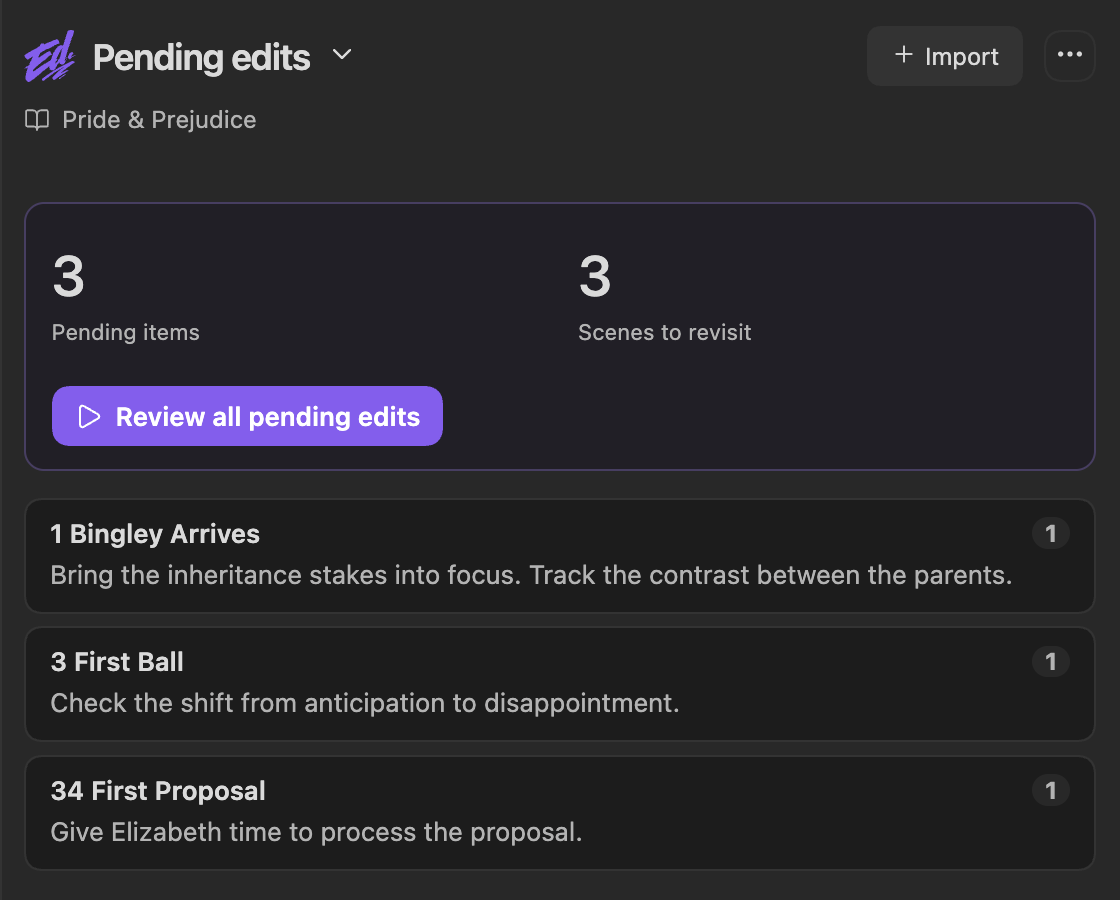
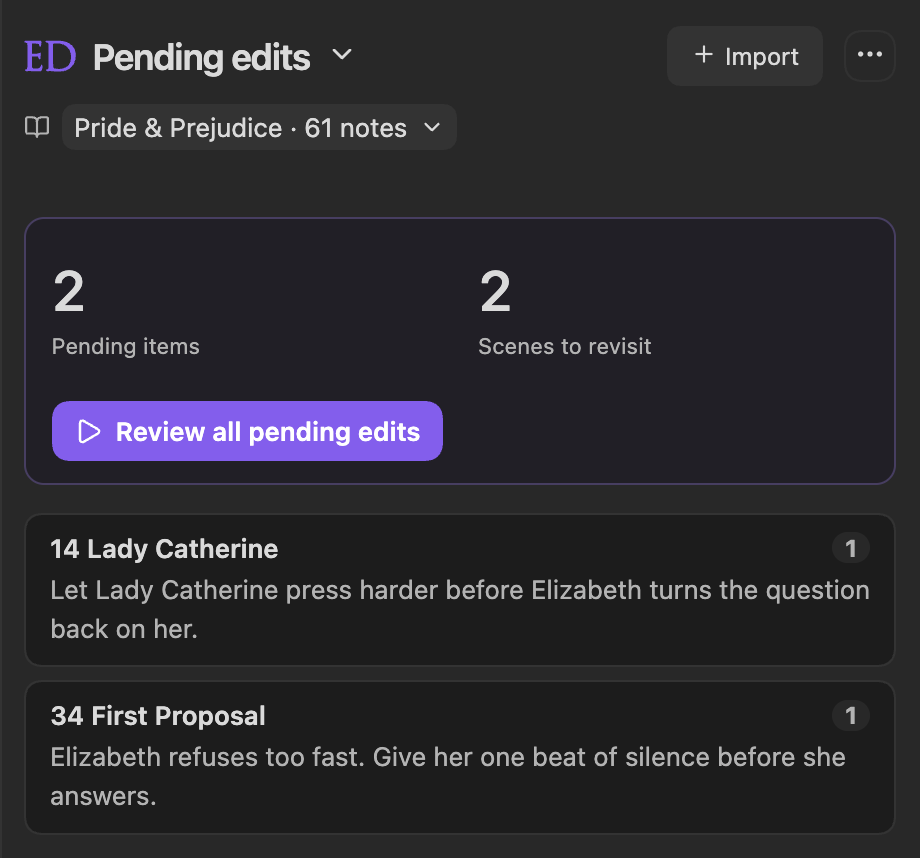
Retake the panel and settings screenshots for the manuscript selector
3.0.4 puts the manuscript selector in every panel header and replaces
the book folder override in Configuration with a Manuscript target
section, so every wiki image showing either was out of date. The
September images were older still: they predated the ED mark.

Retaken from the 3.0.4 build: the four engagement images in the
rebuilt demo vault, with its target set through the selector itself,
and the Review (idle and active), Pending edits, Editorialisms (library
and detail) and Configuration images in a throwaway copy of the capture
vault following Radial Timeline. The new manuscript-target.png shows
the selector with a folder target, subfolders included and a research
folder excluded; Getting Started and the settings reference now show
it. Alt text follows the new crops, and provenance is recorded in
WIKI-SCREENSHOTS.md.

diff --git a/docs/engineering/WIKI-SCREENSHOTS.md b/docs/engineering/WIKI-SCREENSHOTS.md
@@ -87,3 +87,43 @@ have no Open source icon, which the page now says.
 
 Capture scripts and evidence are kept outside the public repository in the
 session scratchpad.
+
+## 3.0.4 manuscript-target refresh — October 19, 2026
+
+Captured the 3.0.4 build (tag `3.0.4`) in desktop Obsidian 1.14.4, dark theme,
+2x device scale, pointer off the captured area. Every panel header now carries
+the manuscript selector ("Book · 6 notes", "Pride & Prejudice · 61 notes"), so
+each image showing a panel header was retaken. No Author-vault content was used.
+
+Demo vault, rebuilt from scratch with the 3.0.0 fixture as in the 3.0.2 refresh,
+plus a `Book/Research` folder with two notes. The target was set through the
+selector itself as a folder target on `Book` with subfolders and `Book/Research`
+excluded. Queue dates moved to Oct 21, 22 and 27 to stay in the future.
+
+- `manuscript-target.png` (new) — the selector dialog at its 640 CSS-pixel
+  modal width, showing 6 eligible notes; shown at 520 px on Getting Started and
+  the settings reference.
+- `panel-editor-engagement.png`, `engagement-history.png`,
+  `panel-revision-plan.png`, `plan-queue-cards.png` — same crops as the 3.0.2
+  refresh, 460 CSS-pixel sidebar.
+
+A throwaway copy of the Editorialist Capture Vault (Pride & Prejudice with
+Radial Timeline), with the target set to Follow Radial Timeline. These replace
+the September 25 images, which predated the current ED mark as well as the
+selector, and are now captured at a 460 CSS-pixel sidebar instead of 560. One
+leftover placeholder pending edit ("Something", scene 14) was replaced in the
+copy with a realistic note.
+
+- `panel-review.png` — idle, through the Reviewed list.
+- `panel-review-active.png` — scene 1's pending edit, through the suggestion card.
+- `panel-pending-edits.png` — summary and both pending items.
+- `panel-editorialisms.png` — library through the second agenda card.
+- `panel-editorialism-detail.png` — Character and consequence, through the
+  Hand off to AI card.
+- `settings-configuration.png` — 780 CSS-pixel content area, tab bar through
+  Cut location; the Manuscript target section replaces the book folder override.
+
+Kept: `panel-author-planner.png` (its header label is unchanged), the schedule
+previews, `panel-import.png` (the launcher's opening screen is unchanged; only
+its paste preview names the manuscript), the Core and Contributors settings tabs,
+and the toolbar and cut-file close-ups.

diff --git a/wiki/Settings-Reference.md b/wiki/Settings-Reference.md
@@ -71,11 +71,13 @@ A card grid, one per contributor:
 
 **Configuration · Scope & data** — where review scope, tracking identity, cut-file location, and maintenance actions live.
 
-<p align="center"><img src="images/settings-configuration.png" alt="Configuration settings tab: how cut files work, and the cut location override" width="620"></p>
+<p align="center"><img src="images/settings-configuration.png" alt="Configuration settings tab with the manuscript target, scene tracking, and the cut location override" width="620"></p>
 
 ### Manuscript target
 
 Use **Change target…** here, or click the manuscript line beneath a panel header.
+
+<p align="center"><img src="images/manuscript-target.png" alt="Manuscript target dialog with A folder selected: the Book folder, Include subfolders on, Book/Research excluded, and a preview of 6 eligible notes" width="520"></p>
 
 - **Follow Radial Timeline** — use its active book while the plugin is enabled. An unavailable book or folder asks you to choose a target; it does not select another book.
 - **A folder** — choose an existing vault folder. Include or skip subfolders and exclude supporting folders by their vault-relative paths. Plain Markdown notes need no `Class: Scene` property.

diff --git a/wiki/Editorialisms-Panel.md b/wiki/Editorialisms-Panel.md
@@ -42,7 +42,7 @@ Files without `type: editorialism` are ignored. The full file format — section
 - **Document list** — files for the active book, filtered by activity, delivery, and reviewer; each shows remaining work, attribution, dates, and completion.
 - **Detail view** — select a document to see its items grouped by section. A dropdown above the items shows **Open items** (the default), **This scene** (open items scoped to the scene you are in), or **All items**, including finished ones.
 
-<p align="center"><img src="images/panel-editorialism-detail.png" alt="Editorialism detail with delivery deadline, effort estimate, AI hand-off, and directive status controls" width="460"></p>
+<p align="center"><img src="images/panel-editorialism-detail.png" alt="Editorialism detail with the delivery's received and due dates, reviewer attribution, the original letter, an effort estimate, and the Hand off to AI card" width="460"></p>
 
 ### Working items
 

diff --git a/wiki/Getting-Started.md b/wiki/Getting-Started.md
@@ -11,6 +11,8 @@ Install from the Obsidian Community Plugins directory:
 
 Choose a manuscript target from the line beneath the panel header: a folder, the current note, the entire vault, or **Follow Radial Timeline**. Folder targets can exclude supporting notes and include or skip subfolders. If you also use [Radial Timeline](Radial-Timeline-Integration), following its active book is optional. The regular review-batch workflow works without it; the active-book pending-edits review depends on Radial Timeline.
 
+<p align="center"><img src="images/manuscript-target.png" alt="Manuscript target dialog with A folder selected: the Book folder, Include subfolders on, Book/Research excluded, and a preview of 6 eligible notes" width="520"></p>
+
 ## Commands
 
 Editorialist registers these commands in the command palette:

diff --git a/wiki/Review-Panel.md b/wiki/Review-Panel.md
@@ -4,7 +4,7 @@ The Review mode is traditional Editorialist: scene-level review batches with lin
 
 ## Idle state
 
-<p align="center"><img src="images/panel-review.png" alt="Review panel with the next scene in a sweep and disclosures for recent review rounds, contributors, and help" width="460"></p>
+<p align="center"><img src="images/panel-review.png" alt="Review panel with the manuscript target, the scene to continue, the other scenes waiting for review, and the reviewed scenes" width="460"></p>
 
 Between sessions the panel shows:
 
